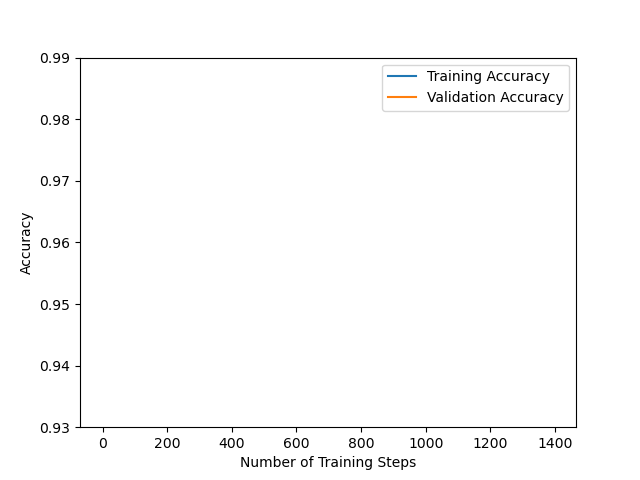
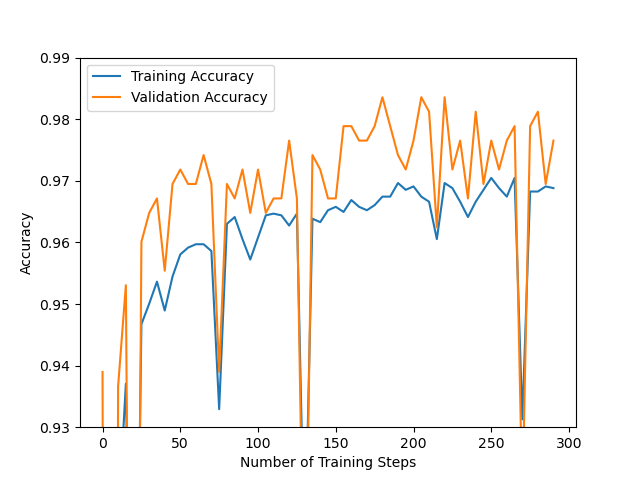
2d is finished and tested

diff --git a/assignment1/trainer.py b/assignment1/trainer.py
@@ -1,3 +1,4 @@
+from pickle import NONE
 import numpy as np
 import utils
 
@@ -73,6 +74,8 @@ class BaseTrainer:
         )
 
         global_step = 0
+        best = None
+        counting = 0
         for epoch in range(num_epochs):
             train_loader = utils.batch_loader(
                 self.X_train, self.Y_train, self.batch_size, shuffle=self.shuffle_dataset)
@@ -90,5 +93,18 @@ class BaseTrainer:
 
                     # TODO (Task 2d): Implement early stopping here.
                     # You can access the validation loss in val_history["loss"]
-                global_step += 1
+                    if best == None:
+                        best = val_loss
+                    elif val_loss < best:
+                        counting = 0
+                        best = val_loss
+                    else:
+                        counting += 1
+                if counting == 10:
+                    print("global step1: ", global_step)
+                    print("Training stopped on epoch", epoch)
+                    return train_history, val_history
+                
+
+                global_step += 1            
         return train_history, val_history

diff --git a/assignment1/task2.py b/assignment1/task2.py
@@ -17,6 +17,17 @@ def calculate_accuracy(X: np.ndarray, targets: np.ndarray, model: BinaryModel) -
     """
     # TODO Implement this function (Task 2c)
     accuracy = 0.0
+    correct_predictions = 0
+    predictions = targets.shape[0]
+    outputs = model.forward(X)
+    
+    #print("shape target: ",targets.shape,"   shape out: ", outputs.shape)
+    for idx, val in enumerate(outputs):
+        target = targets[idx]
+        if val >= 0.5 and target == 1 or val<0.5 and target == 0:
+            correct_predictions += 1
+    accuracy = correct_predictions/predictions
+    
     return accuracy
 
 
@@ -39,8 +50,6 @@ class LogisticTrainer(BaseTrainer):
         loss = cross_entropy_loss(Y_batch, outputs)
         model.backward(X_batch,outputs,Y_batch)
         model.w = model.w-learning_rate*model.grad
-
-        print(loss)
         return loss
 
     def validation_step(self):
@@ -68,7 +77,7 @@ class LogisticTrainer(BaseTrainer):
 
 if __name__ == "__main__":
     # hyperparameters DO NOT CHANGE IF NOT SPECIFIED IN ASSIGNMENT TEXT
-    num_epochs = 50
+    num_epochs = 500
     learning_rate = 0.05
     batch_size = 128
     shuffle_dataset = False
